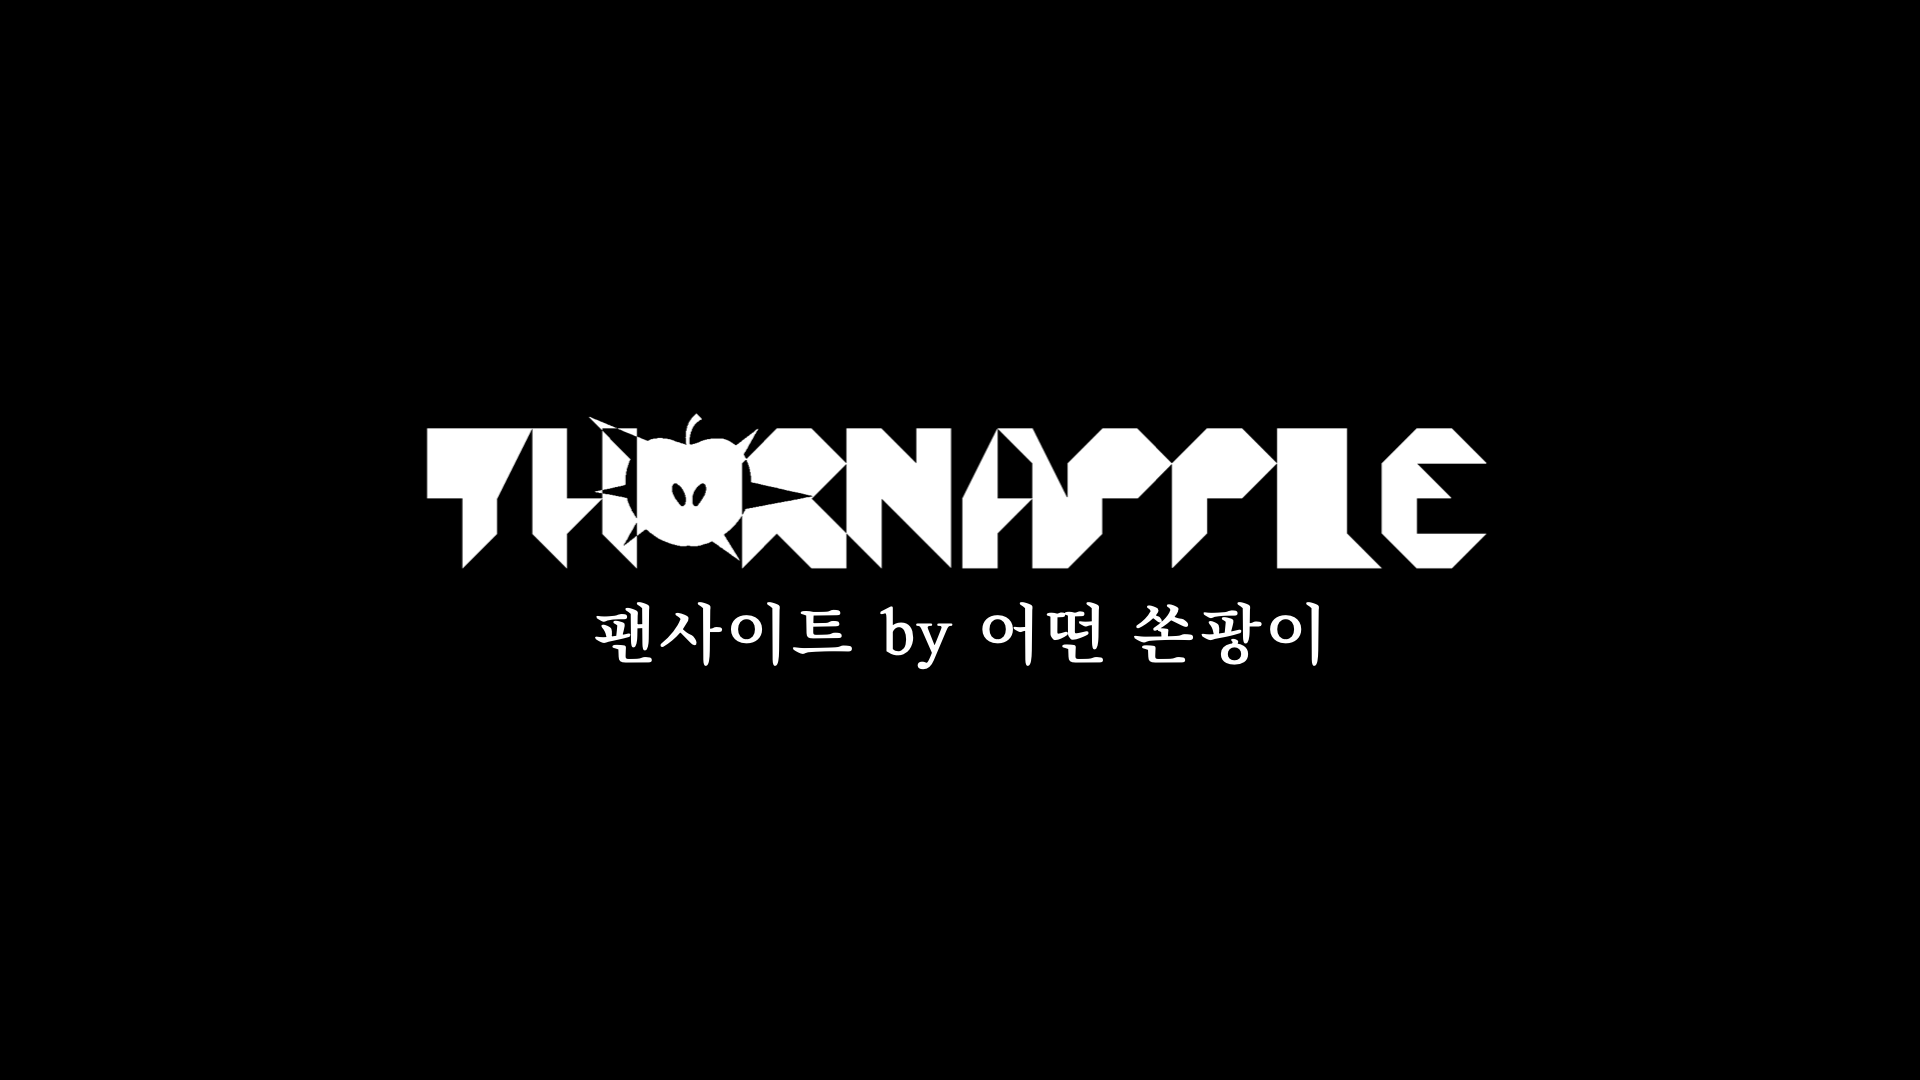
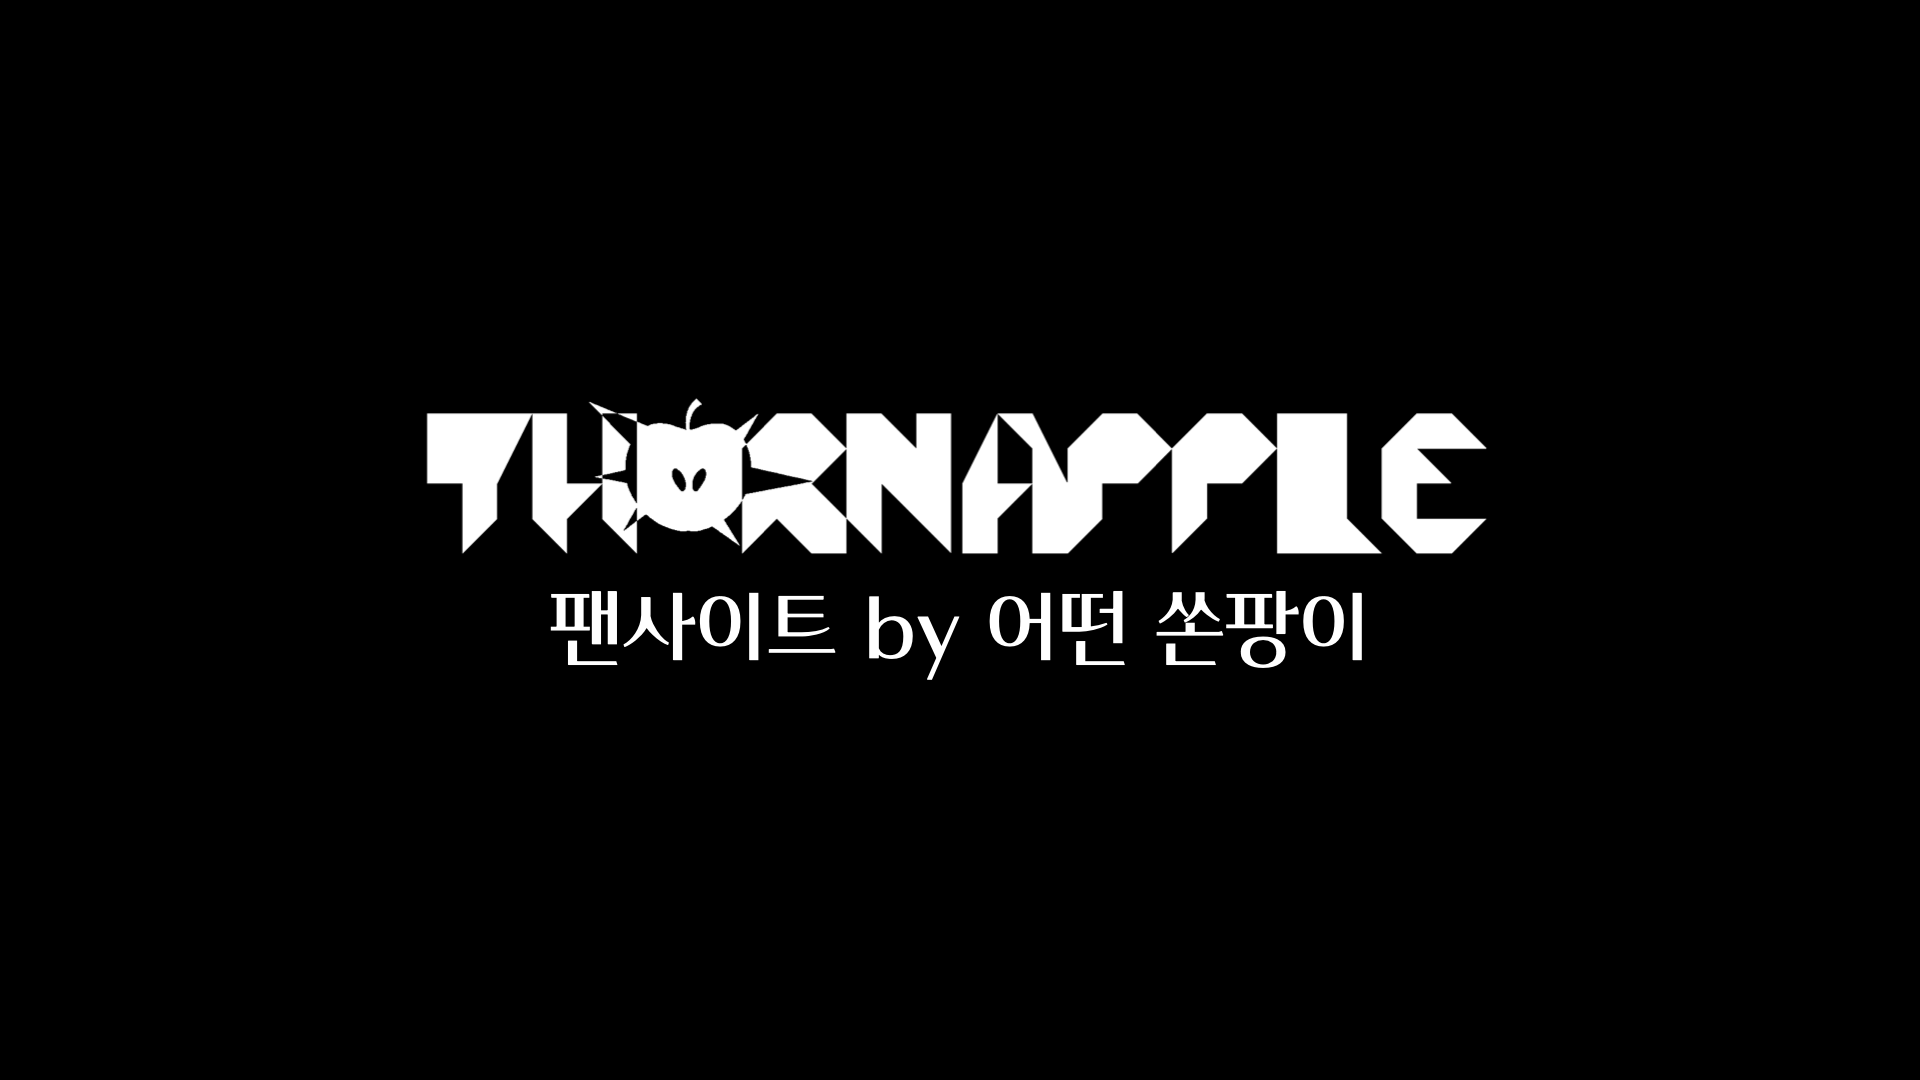
Change header font

Changed region(s): [[0.2188, 0.3667, 0.7812, 0.6417]]

diff --git a/src/app/layout.tsx b/src/app/layout.tsx
@@ -22,6 +22,11 @@ const pyeongchang = localFont({
   variable: "--font-pyeongchang",
 });
 
+const yuniverse = localFont({
+  src: [{ path: "../font/YUniverse-B00.otf", weight: "400", style: "normal" }],
+  variable: "--font-yuniverse",
+});
+
 const pretendard = localFont({
   src: [
     {
@@ -81,7 +86,7 @@ export default ({
   return (
     <html
       lang="ko"
-      className={`${sunbatang.variable} ${pyeongchang.variable} ${pretendard.variable}`}
+      className={`${sunbatang.variable} ${pyeongchang.variable} ${pretendard.variable} ${yuniverse.variable}`}
     >
       <head>
         <link
@@ -121,9 +126,7 @@ export default ({
                 priority
               />
             </Link>
-            <p className="text-sm font-sunbatang font-light -mt-0.5">
-              팬사이트 by 어떤 쏜팡이
-            </p>
+            <p className="font-yuniverse -mt-0.5">팬사이트 by 어떤 쏜팡이</p>
           </div>
           <div className="flex w-full h-10 justify-center border border-slate-200">
             <div className="flex w-full max-w-4xl items-center">

diff --git a/tailwind.config.ts b/tailwind.config.ts
@@ -26,6 +26,7 @@ const config: Config = {
         sunbatang: ["var(--font-sunbatang)", "serif"],
         pyeongchang: ["var(--font-pyeongchang)", "sans-serif"],
         pretendard: ["var(--font-pretendard)", "sans-serif"],
+        yuniverse: ["var(--font-yuniverse)", "sans-serif"],
       },
       transitionProperty: {
         appear: "opacity translate",
